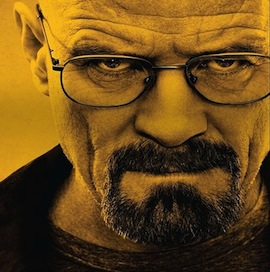
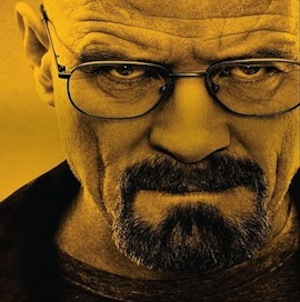
added two id's. added borders to two images

diff --git a/index.html b/index.html
@@ -11,7 +11,7 @@
 <body>
   <div class="container clearfix">
     <div class="grid_4">
-      <img src="img/goldenbear.jpg" alt="Goldenbears" height="380" width="320">
+      <img src="img/goldenbear.jpg" alt="Goldenbears" id="bear">
     </div>
     <div class="grid_8 omega">
       <ul class="nav">
@@ -27,7 +27,7 @@
       <p><a href="#" class="btn">Portfolio</a></p>
     </div>
     <div class="grid_3 omega">
-      <img src="img/me.jpg" alt="Me">
+      <img src="img/me.jpg" alt="Me" id="me">
     </div>
 
     <div id="nfl" class="grid_7">

diff --git a/css/style.css b/css/style.css
@@ -52,6 +52,16 @@ ul.nav li a{
 	margin: 50px 0 75px 0;
 }
 
+#bear {
+	height: 380px;
+	width: 320px;
+	border: 8px solid #faf3bc;
+}
+
+#me {
+	border: 8px solid #faf3bc;
+}
+
 
 #movies img {
 	border: 8px solid #faf3bc;
